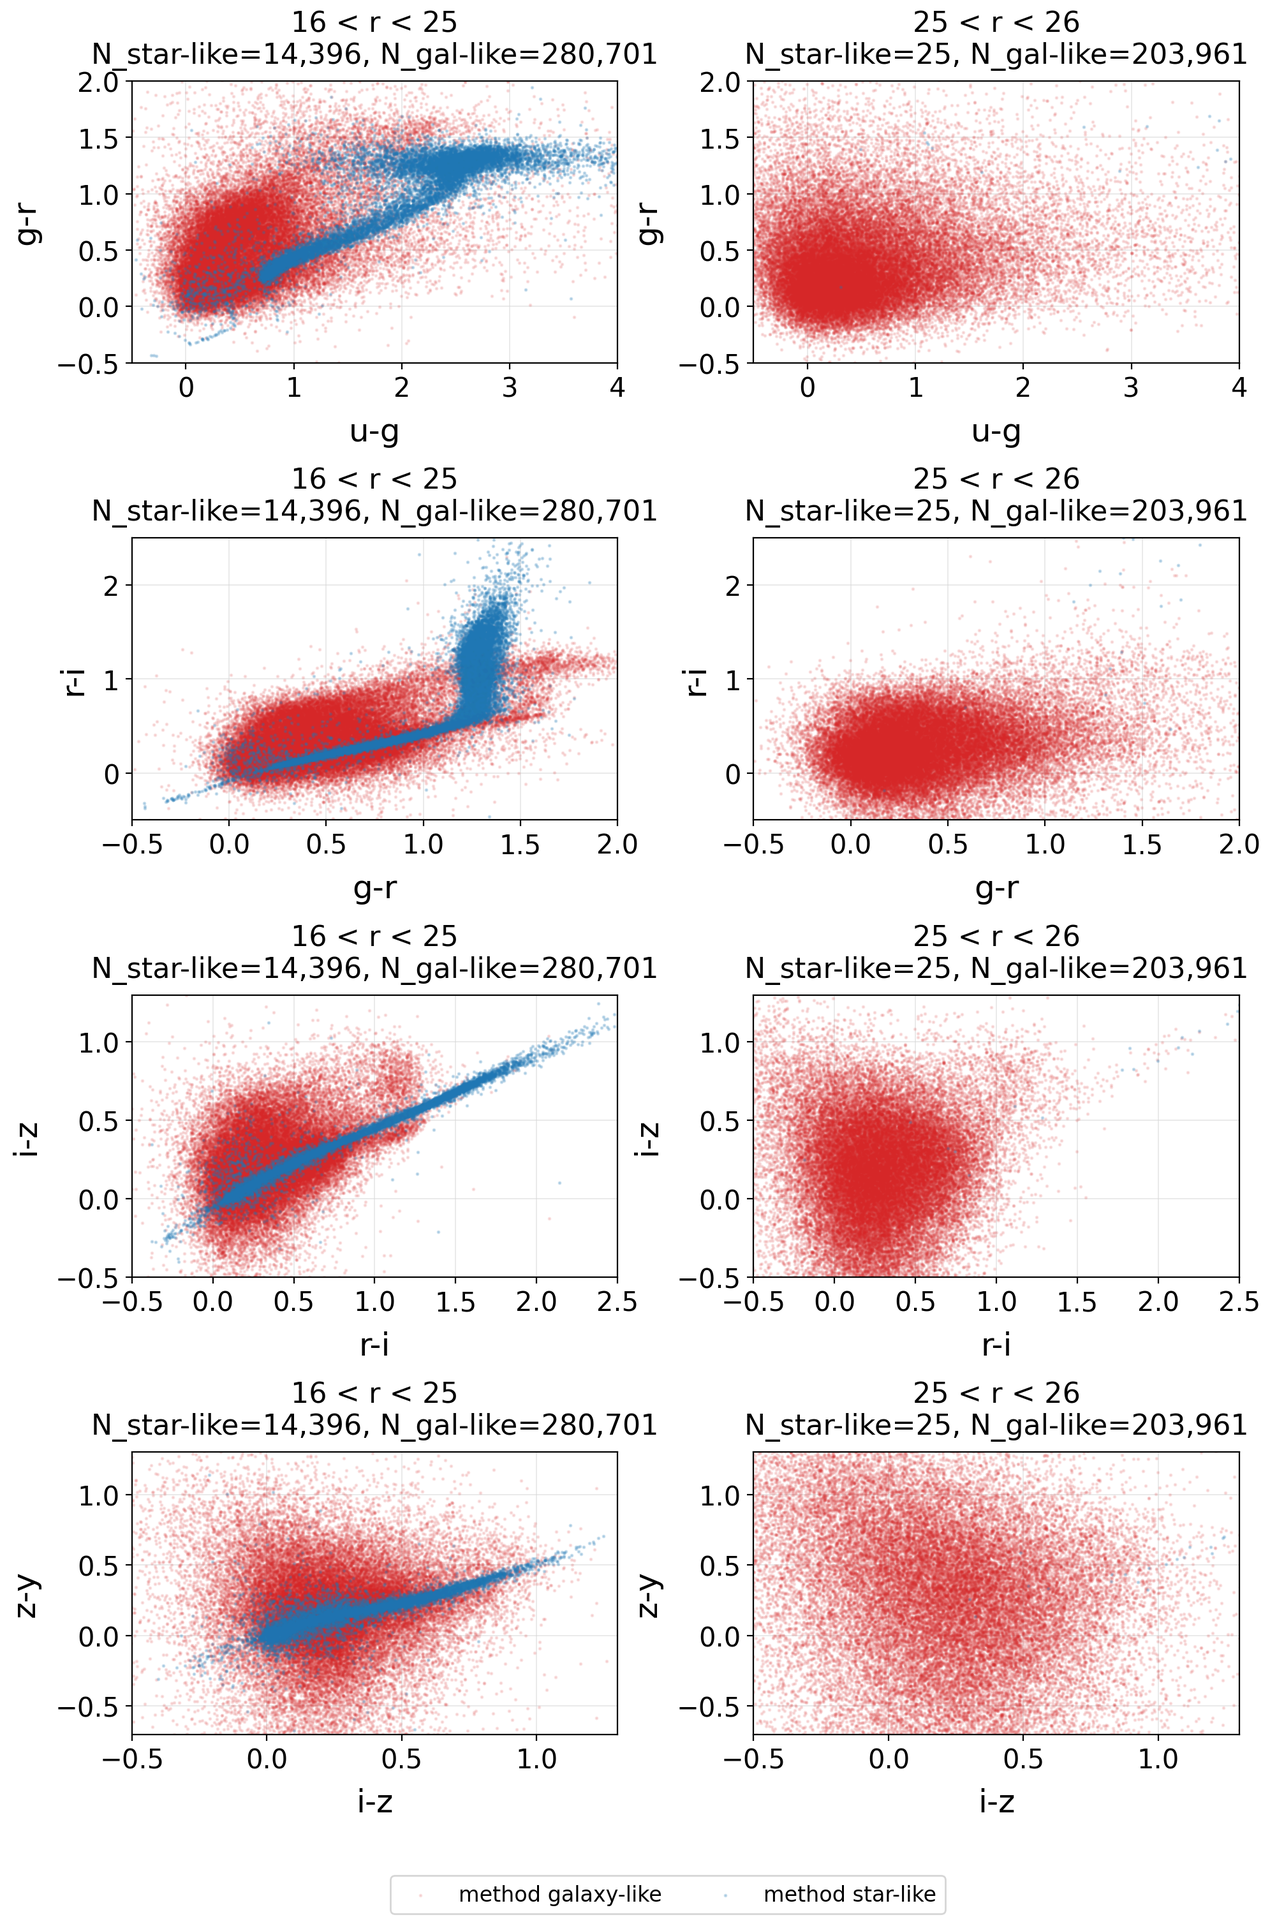
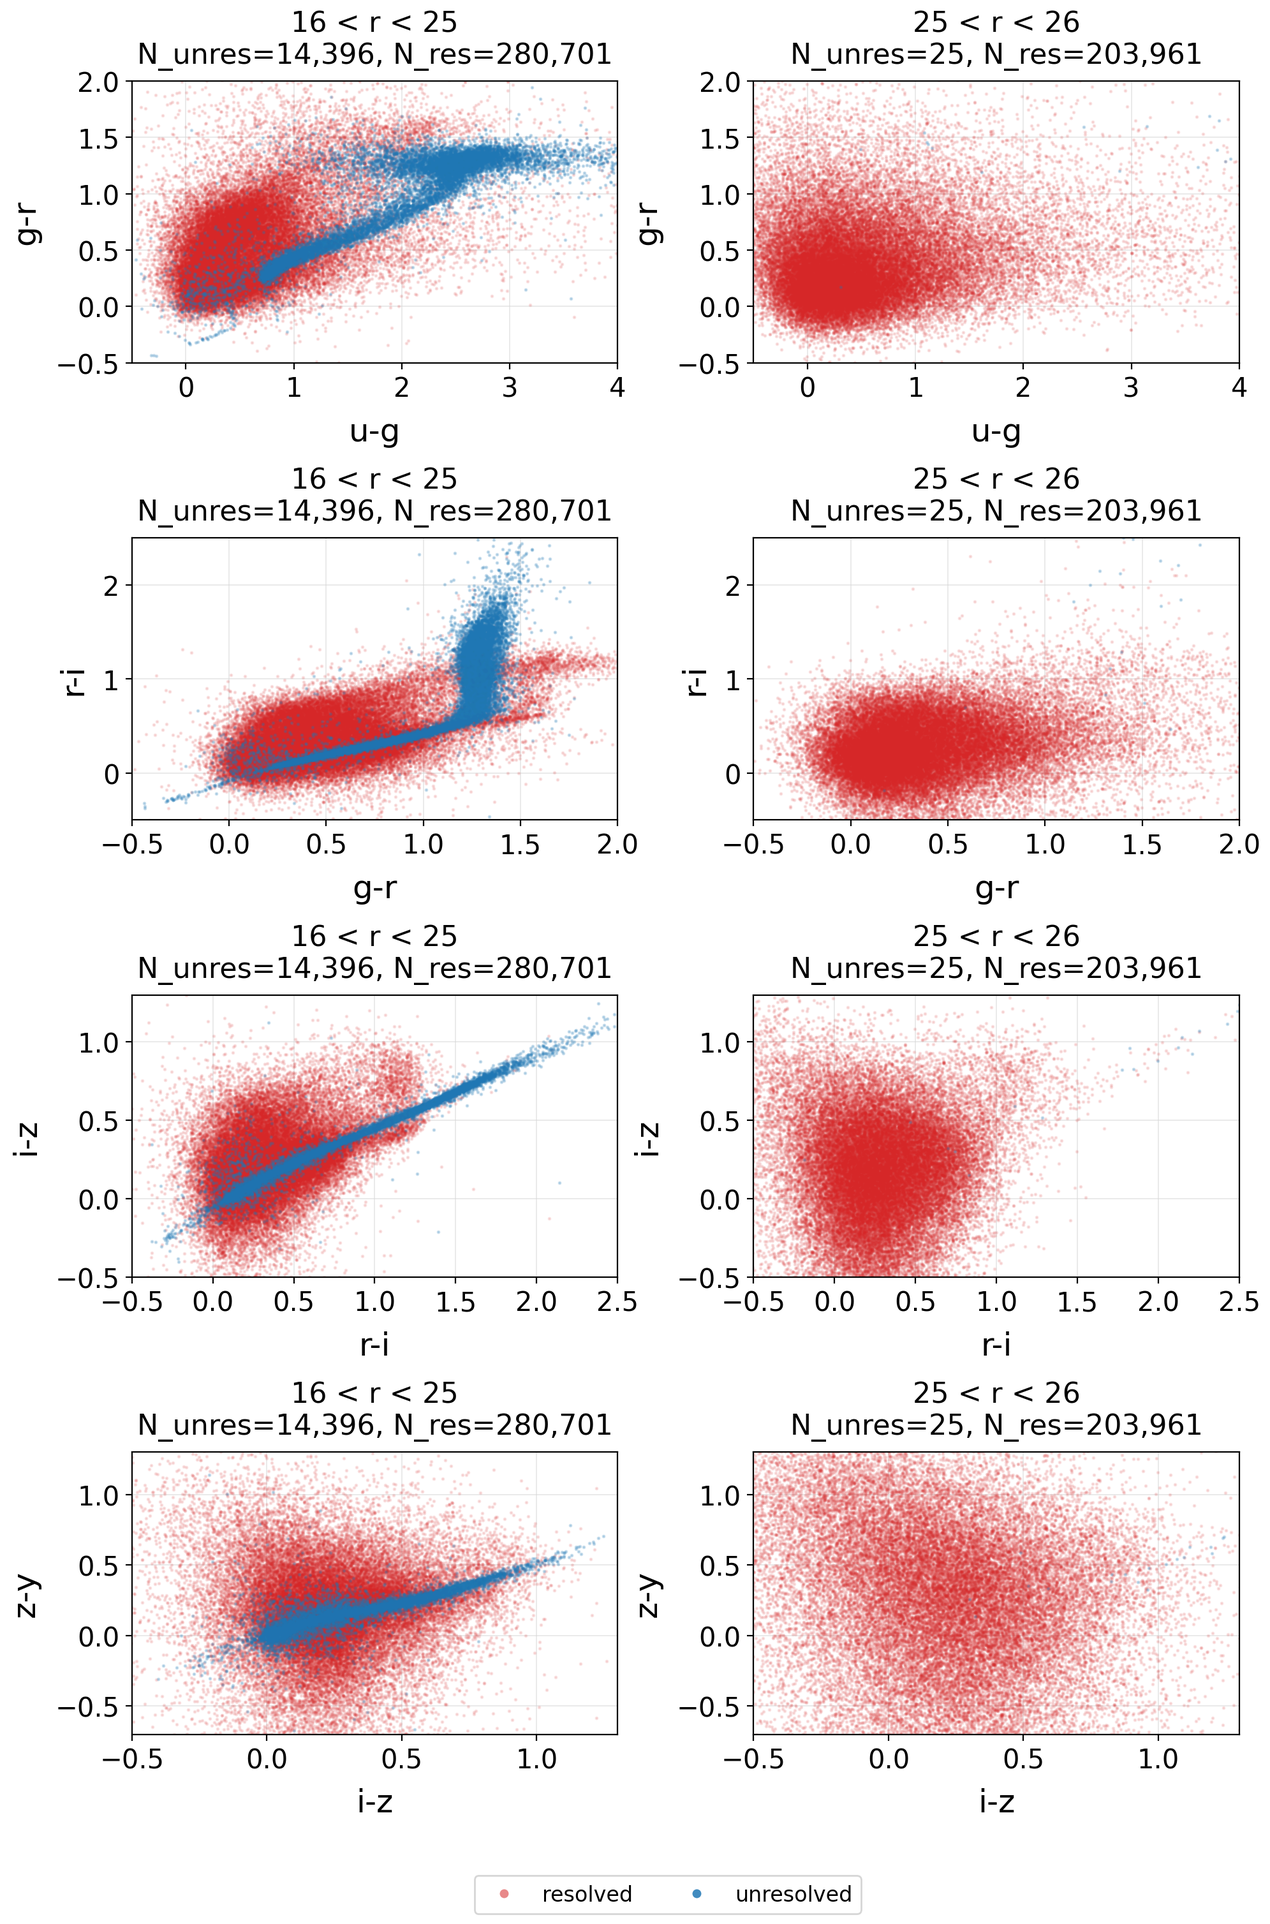
Standardize method-label figure legends

diff --git a/analysis_code/section2_section5_paper_convergence/run_section2_eq54_color_integrated_cosmos.py b/analysis_code/section2_section5_paper_convergence/run_section2_eq54_color_integrated_cosmos.py
@@ -20,6 +20,7 @@ import matplotlib
 
 matplotlib.use("Agg")
 import matplotlib.pyplot as plt
+from matplotlib.lines import Line2D
 import numpy as np
 import pandas as pd
 
@@ -268,13 +269,13 @@ def score_stats(df: pd.DataFrame, col: str) -> dict[str, float | int]:
 def build_performance_rows(eval_df: pd.DataFrame, matched: pd.DataFrame) -> pd.DataFrame:
     rows: list[dict[str, object]] = []
     methods = [
-        ("eq54_morphology_r", "pS_r_eq54prior", "morphology-only Eq.54 r"),
+        ("eq54_morphology_r", "pS_r_eq54prior", "r morphology only"),
         ("pS_color_only", "pS_color", "color-only Random Forest"),
-        ("eq54_color_r", "pS_r_eq54prior_color", "Eq.54 r + color"),
-        ("eq54_morphology_gri", "pS_gri_eq54prior", "morphology-only Eq.54 gri"),
-        ("eq54_color_gri", "pS_gri_eq54prior_color", "Eq.54 gri + color"),
-        ("eq54_morphology_ugrizy", "pS_ugrizy_eq54prior", "morphology-only Eq.54 ugrizy"),
-        ("eq54_color_ugrizy", "pS_ugrizy_eq54prior_color", "Eq.54 ugrizy + color"),
+        ("eq54_color_r", "pS_r_eq54prior_color", "r morphology + color"),
+        ("eq54_morphology_gri", "pS_gri_eq54prior", "gri morphology only"),
+        ("eq54_color_gri", "pS_gri_eq54prior_color", "gri morphology + color"),
+        ("eq54_morphology_ugrizy", "pS_ugrizy_eq54prior", "ugrizy morphology only"),
+        ("eq54_color_ugrizy", "pS_ugrizy_eq54prior_color", "ugrizy morphology + color"),
     ]
     for lo, hi in PERFORMANCE_BINS:
         in_bin = eval_df["cmodel_mag_r"].ge(lo) & eval_df["cmodel_mag_r"].lt(hi)
@@ -406,7 +407,7 @@ def plot_fig2_4(repo_root: Path, joined: pd.DataFrame) -> list[Path]:
         rasterized=True,
     )
     cbar = fig.colorbar(sc, ax=ax, pad=0.015)
-    cbar.set_label("pS_r Eq.54 + color")
+    cbar.set_label("pS_r, morphology + color")
     ax.set_xlim(16, 26)
     finite_y = use["psf_minus_cmodel_r"].dropna().to_numpy(float)
     if finite_y.size:
@@ -414,7 +415,7 @@ def plot_fig2_4(repo_root: Path, joined: pd.DataFrame) -> list[Path]:
         ax.set_ylim(max(-0.4, lo), min(2.2, hi))
     ax.set_xlabel("r CModel magnitude")
     ax.set_ylabel("r PSF - CModel")
-    ax.set_title("COSMOS r-band pS map, Eq.54 + color")
+    ax.set_title("COSMOS r-band pS map, morphology + color")
     return save_figure(fig, out, write_pdf=True)
 
 
@@ -448,8 +449,8 @@ def plot_fig2_5(repo_root: Path, performance: pd.DataFrame) -> list[Path]:
         repo_root / FIGURE_DIR / "fig2_5_cosmos_r_pS_vs_extendedness_performance_eq54prior_color.png",
         [
             ("r_extendedness", "r extendedness", "#ff7f0e"),
-            ("eq54_morphology_r", "Eq.54 morphology r", "#222222"),
-            ("eq54_color_r", "Eq.54 r + color", "#1f77b4"),
+            ("eq54_morphology_r", "r morphology only", "#222222"),
+            ("eq54_color_r", "r morphology + color", "#1f77b4"),
         ],
     )
 
@@ -459,9 +460,9 @@ def plot_fig2_6(repo_root: Path, performance: pd.DataFrame) -> list[Path]:
         performance,
         repo_root / FIGURE_DIR / "fig2_6_cosmos_multiband_r_gri_ugrizy_performance_eq54prior_color.png",
         [
-            ("eq54_color_r", "r + color", "#1f77b4"),
-            ("eq54_color_gri", "g+r+i + color", "#2ca02c"),
-            ("eq54_color_ugrizy", "u+g+r+i+z+y + color", "#9467bd"),
+            ("eq54_color_r", "r morphology + color", "#1f77b4"),
+            ("eq54_color_gri", "gri morphology + color", "#2ca02c"),
+            ("eq54_color_ugrizy", "ugrizy morphology + color", "#9467bd"),
         ],
     )
 
@@ -486,13 +487,13 @@ def plot_fig2_7(repo_root: Path, joined: pd.DataFrame) -> list[Path]:
             gal_panel = panel.loc[~method_star[finite]]
             gal_plot = downsample_frame(gal_panel, 80_000, random_state=RANDOM_SEED)
             star_plot = downsample_frame(star_panel, 45_000, random_state=RANDOM_SEED)
-            ax.scatter(gal_plot[xcol], gal_plot[ycol], s=1.0, c=COLORS["galaxy"], alpha=0.08, linewidths=0, rasterized=True, label="classified galaxy")
-            ax.scatter(star_plot[xcol], star_plot[ycol], s=1.3, c=COLORS["star"], alpha=0.28, linewidths=0, rasterized=True, label="classified star")
+            ax.scatter(gal_plot[xcol], gal_plot[ycol], s=1.0, c=COLORS["galaxy"], alpha=0.08, linewidths=0, rasterized=True)
+            ax.scatter(star_plot[xcol], star_plot[ycol], s=1.3, c=COLORS["star"], alpha=0.28, linewidths=0, rasterized=True)
             ax.set_xlim(*xlim)
             ax.set_ylim(*ylim)
             ax.set_xlabel(xlabel)
             ax.set_ylabel(ylabel)
-            ax.set_title(f"{lo:g} < r < {hi:g}\nN_star={len(star_panel):,}, N_gal={len(gal_panel):,}")
+            ax.set_title(f"{lo:g} < r < {hi:g}\nN_unres={len(star_panel):,}, N_res={len(gal_panel):,}")
             rows.append(
                 {
                     "x_color": xcol,
@@ -506,8 +507,11 @@ def plot_fig2_7(repo_root: Path, joined: pd.DataFrame) -> list[Path]:
                     "threshold": OPERATING_THRESHOLD,
                 }
             )
-    handles, labels = axes[0, 0].get_legend_handles_labels()
-    fig.legend(handles[:2], labels[:2], loc="lower center", ncol=2, bbox_to_anchor=(0.5, 0.01), frameon=True)
+    handles = [
+        Line2D([0], [0], marker="o", color="none", markerfacecolor=COLORS["galaxy"], markeredgewidth=0, markersize=5, alpha=0.55, label="resolved"),
+        Line2D([0], [0], marker="o", color="none", markerfacecolor=COLORS["star"], markeredgewidth=0, markersize=5, alpha=0.85, label="unresolved"),
+    ]
+    fig.legend(handles=handles, loc="lower center", ncol=2, bbox_to_anchor=(0.5, 0.01), frameon=True)
     fig.subplots_adjust(left=0.08, right=0.98, top=0.96, bottom=0.07, hspace=0.58, wspace=0.30)
     saved = save_figure(fig, out, write_pdf=True)
     summary = repo_root / RESULT_DIR / "fig2_7_cosmos_ugrizy_method_color_color_2x4_eq54prior_color_summary.csv"
@@ -519,9 +523,9 @@ def plot_fig5_10(repo_root: Path, joined: pd.DataFrame) -> list[Path]:
     set_paper_style()
     out = repo_root / FIGURE5_DIR / "fig5_10_cosmos_eq54_vs_eq54_color_pS_hist_by_rmag.png"
     scores = [
-        ("pS_r_eq54prior", "Eq.54 morphology r", "#222222"),
+        ("pS_r_eq54prior", "r morphology only", "#222222"),
         ("pS_color", "pS_color", "#ff7f0e"),
-        ("pS_r_eq54prior_color", "Eq.54 r + color", "#1f77b4"),
+        ("pS_r_eq54prior_color", "r morphology + color", "#1f77b4"),
     ]
     fig, axes = plt.subplots(3, 3, figsize=(14.6, 10.2), sharex=True, sharey=False)
     hist_bins = np.linspace(0, 1, 41)

diff --git a/analysis_code/section2_section5_paper_convergence/run_section2_v9_ps_figures.py b/analysis_code/section2_section5_paper_convergence/run_section2_v9_ps_figures.py
@@ -11,6 +11,7 @@ from datetime import datetime
 from pathlib import Path
 
 import matplotlib.pyplot as plt
+from matplotlib.lines import Line2D
 import numpy as np
 import pandas as pd
 
@@ -609,7 +610,6 @@ def plot_fig2_7(repo_root: Path, full: pd.DataFrame, columns: dict[str, str]) ->
                 s=1.1,
                 alpha=0.12,
                 color=COLORS["galaxy"],
-                label="method galaxy-like" if row_idx == 0 and col_idx == 0 else None,
                 rasterized=True,
             )
             ax.scatter(
@@ -618,7 +618,6 @@ def plot_fig2_7(repo_root: Path, full: pd.DataFrame, columns: dict[str, str]) ->
                 s=1.1,
                 alpha=0.22,
                 color=COLORS["star"],
-                label="method star-like" if row_idx == 0 and col_idx == 0 else None,
                 rasterized=True,
             )
             ax.set_xlim(*xlim)
@@ -627,7 +626,7 @@ def plot_fig2_7(repo_root: Path, full: pd.DataFrame, columns: dict[str, str]) ->
             ax.set_ylabel(ylabel, labelpad=8)
             ax.set_title(
                 f"{mag_low:g} < r < {mag_high:g}\n"
-                f"N_star-like={len(star):,}, N_gal-like={len(gal):,}",
+                f"N_unres={len(star):,}, N_res={len(gal):,}",
                 pad=10,
             )
             rows.append(
@@ -647,8 +646,11 @@ def plot_fig2_7(repo_root: Path, full: pd.DataFrame, columns: dict[str, str]) ->
                     "N_method_galaxy_like_plotted": int(len(gal_plot)),
                 }
             )
-    handles, labels = axes[0, 0].get_legend_handles_labels()
-    fig.legend(handles, labels, loc="lower center", ncol=2, bbox_to_anchor=(0.5, -0.012), frameon=True)
+    handles = [
+        Line2D([0], [0], marker="o", color="none", markerfacecolor=COLORS["galaxy"], markeredgewidth=0, markersize=5, alpha=0.55, label="resolved"),
+        Line2D([0], [0], marker="o", color="none", markerfacecolor=COLORS["star"], markeredgewidth=0, markersize=5, alpha=0.85, label="unresolved"),
+    ]
+    fig.legend(handles=handles, loc="lower center", ncol=2, bbox_to_anchor=(0.5, -0.012), frameon=True)
     fig.subplots_adjust(hspace=0.62, wspace=0.28, bottom=0.08)
     saved = save_figure(fig, out_png, write_pdf=True)
 
@@ -672,8 +674,8 @@ def plot_fig2_7(repo_root: Path, full: pd.DataFrame, columns: dict[str, str]) ->
                 "",
                 "## Method-label definition",
                 "- `pS_ugrizy = mean(pS_u, pS_g, pS_r, pS_i, pS_z, pS_y)` over finite values.",
-                f"- method star-like if `pS_ugrizy >= {OPERATING_THRESHOLD}`.",
-                f"- method galaxy-like if `pS_ugrizy < {OPERATING_THRESHOLD}`.",
+                f"- unresolved if `pS_ugrizy >= {OPERATING_THRESHOLD}`.",
+                f"- resolved if `pS_ugrizy < {OPERATING_THRESHOLD}`.",
                 "",
                 "No pS values were reconstructed or prior-corrected in this pass.",
             ]

diff --git a/analysis_code/section2_section5_paper_convergence/run_paper_phase3_eq54_prior_cosmos.py b/analysis_code/section2_section5_paper_convergence/run_paper_phase3_eq54_prior_cosmos.py
@@ -15,6 +15,7 @@ import matplotlib
 
 matplotlib.use("Agg")
 import matplotlib.pyplot as plt
+from matplotlib.lines import Line2D
 import numpy as np
 import pandas as pd
 import pyarrow.parquet as pq
@@ -563,13 +564,13 @@ def plot_fig2_7(repo_root: Path, full: pd.DataFrame) -> list[Path]:
             star = panel[panel["method_star_like"]]
             gal_plot = downsample_frame(gal, 45_000, random_state=RANDOM_SEED + row_idx * 10 + col_idx)
             star_plot = downsample_frame(star, 45_000, random_state=RANDOM_SEED + row_idx * 10 + col_idx + 1)
-            ax.scatter(gal_plot[xcol], gal_plot[ycol], s=1.1, alpha=0.12, color=COLORS["galaxy"], label="method galaxy-like" if row_idx == 0 and col_idx == 0 else None, rasterized=True)
-            ax.scatter(star_plot[xcol], star_plot[ycol], s=1.1, alpha=0.22, color=COLORS["star"], label="method star-like" if row_idx == 0 and col_idx == 0 else None, rasterized=True)
+            ax.scatter(gal_plot[xcol], gal_plot[ycol], s=1.1, alpha=0.12, color=COLORS["galaxy"], rasterized=True)
+            ax.scatter(star_plot[xcol], star_plot[ycol], s=1.1, alpha=0.22, color=COLORS["star"], rasterized=True)
             ax.set_xlim(*xlim)
             ax.set_ylim(*ylim)
             ax.set_xlabel(xlabel, labelpad=8)
             ax.set_ylabel(ylabel, labelpad=8)
-            ax.set_title(f"{mag_low:g} < r < {mag_high:g}\nN_star-like={len(star):,}, N_gal-like={len(gal):,}", pad=10)
+            ax.set_title(f"{mag_low:g} < r < {mag_high:g}\nN_unres={len(star):,}, N_res={len(gal):,}", pad=10)
             rows.append(
                 {
                     "color_plane": f"{xlabel} vs {ylabel}",
@@ -587,8 +588,11 @@ def plot_fig2_7(repo_root: Path, full: pd.DataFrame) -> list[Path]:
                     "N_method_galaxy_like_plotted": int(len(gal_plot)),
                 }
             )
-    handles, labels = axes[0, 0].get_legend_handles_labels()
-    fig.legend(handles, labels, loc="lower center", ncol=2, bbox_to_anchor=(0.5, -0.012), frameon=True)
+    handles = [
+        Line2D([0], [0], marker="o", color="none", markerfacecolor=COLORS["galaxy"], markeredgewidth=0, markersize=5, alpha=0.55, label="resolved"),
+        Line2D([0], [0], marker="o", color="none", markerfacecolor=COLORS["star"], markeredgewidth=0, markersize=5, alpha=0.85, label="unresolved"),
+    ]
+    fig.legend(handles=handles, loc="lower center", ncol=2, bbox_to_anchor=(0.5, -0.012), frameon=True)
     fig.subplots_adjust(hspace=0.62, wspace=0.28, bottom=0.08)
     saved = save_figure(fig, out_png, write_pdf=True)
     pd.DataFrame(rows).to_csv(summary_path, index=False)

diff --git a/analysis_code/section2_section5_paper_convergence/paper_bayesian_method.py b/analysis_code/section2_section5_paper_convergence/paper_bayesian_method.py
@@ -6,6 +6,7 @@ from pathlib import Path
 import sys
 
 import matplotlib.pyplot as plt
+from matplotlib.lines import Line2D
 import numpy as np
 import pandas as pd
 
@@ -349,14 +350,14 @@ def plot_fig2_7_method_color_color(scored: pd.DataFrame, output_png: Path) -> tu
         star = scored.loc[finite & method_star]
         gal_plot = downsample_frame(gal, 80000)
         star_plot = downsample_frame(star, 30000)
-        ax.scatter(gal_plot[x_col], gal_plot[y_col], s=2, c=COLORS["galaxy"], alpha=0.10, linewidths=0, label=f"method galaxy N={len(gal):,}")
-        ax.scatter(star_plot[x_col], star_plot[y_col], s=3, c=COLORS["star"], alpha=0.40, linewidths=0, label=f"method star N={len(star):,}")
+        ax.scatter(gal_plot[x_col], gal_plot[y_col], s=2, c=COLORS["galaxy"], alpha=0.10, linewidths=0)
+        ax.scatter(star_plot[x_col], star_plot[y_col], s=3, c=COLORS["star"], alpha=0.40, linewidths=0)
         xlim, ylim = COLOR_COLOR_LIMITS[limit_key]
         ax.set_xlim(xlim)
         ax.set_ylim(ylim)
         ax.set_xlabel(x_label)
         ax.set_ylabel(y_label)
-        ax.set_title(f"{lo:g} < rmag < {hi:g}\nN_star={len(star):,}, N_gal={len(gal):,}")
+        ax.set_title(f"{lo:g} < rmag < {hi:g}\nN_unres={len(star):,}, N_res={len(gal):,}")
         rows.append(
             {
                 "x_column": x_col,
@@ -369,8 +370,11 @@ def plot_fig2_7_method_color_color(scored: pd.DataFrame, output_png: Path) -> tu
                 "notes": "no Eq. 54 prior calibration yet",
             }
         )
-    handles, labels = axes[0, 0].get_legend_handles_labels()
-    fig.legend(handles, labels, loc="lower center", ncol=2, frameon=True, bbox_to_anchor=(0.5, 0.02))
+    handles = [
+        Line2D([0], [0], marker="o", color="none", markerfacecolor=COLORS["galaxy"], markeredgewidth=0, markersize=5, alpha=0.55, label="resolved"),
+        Line2D([0], [0], marker="o", color="none", markerfacecolor=COLORS["star"], markeredgewidth=0, markersize=5, alpha=0.85, label="unresolved"),
+    ]
+    fig.legend(handles=handles, loc="lower center", ncol=2, frameon=True, bbox_to_anchor=(0.5, 0.02))
     for ax in axes.flat:
         leg = ax.get_legend()
         if leg is not None:

diff --git a/analysis_code/section2_section5_paper_convergence/run_ps_color_v1_cosmos.py b/analysis_code/section2_section5_paper_convergence/run_ps_color_v1_cosmos.py
@@ -10,6 +10,7 @@ from pathlib import Path
 
 import joblib
 import matplotlib.pyplot as plt
+from matplotlib.lines import Line2D
 import numpy as np
 import pandas as pd
 from sklearn.metrics import roc_auc_score
@@ -199,18 +200,20 @@ def _plot_method_color_color(ps_color: pd.DataFrame, output_png: Path) -> list[P
             star_like = ps_color.loc[finite & class_star]
             if len(galaxy_like):
                 plot_gal = galaxy_like.sample(min(len(galaxy_like), 90000), random_state=42)
-                ax.scatter(plot_gal[xcol], plot_gal[ycol], s=1.8, c=COLORS["galaxy"], alpha=0.10, linewidths=0, label="pS_color < 0.5")
+                ax.scatter(plot_gal[xcol], plot_gal[ycol], s=1.8, c=COLORS["galaxy"], alpha=0.10, linewidths=0)
             if len(star_like):
                 plot_star = star_like.sample(min(len(star_like), 40000), random_state=42)
-                ax.scatter(plot_star[xcol], plot_star[ycol], s=2.2, c=COLORS["star"], alpha=0.35, linewidths=0, label="pS_color >= 0.5")
+                ax.scatter(plot_star[xcol], plot_star[ycol], s=2.2, c=COLORS["star"], alpha=0.35, linewidths=0)
             ax.set_xlim(*xlim)
             ax.set_ylim(*ylim)
             ax.set_xlabel(xlabel, labelpad=8)
             ax.set_ylabel(ylabel, labelpad=8)
-            ax.set_title(f"{lo:g} < r < {hi:g}\nN_starlike={len(star_like):,}, N_gallike={len(galaxy_like):,}", pad=12)
-    handles, labels = axes.flat[0].get_legend_handles_labels()
-    if handles:
-        fig.legend(handles, labels, loc="lower center", ncol=2, frameon=True, bbox_to_anchor=(0.5, 0.018))
+            ax.set_title(f"{lo:g} < r < {hi:g}\nN_unres={len(star_like):,}, N_res={len(galaxy_like):,}", pad=12)
+    handles = [
+        Line2D([0], [0], marker="o", color="none", markerfacecolor=COLORS["galaxy"], markeredgewidth=0, markersize=5, alpha=0.55, label="resolved"),
+        Line2D([0], [0], marker="o", color="none", markerfacecolor=COLORS["star"], markeredgewidth=0, markersize=5, alpha=0.85, label="unresolved"),
+    ]
+    fig.legend(handles=handles, loc="lower center", ncol=2, frameon=True, bbox_to_anchor=(0.5, 0.018))
     return save_figure(fig, output_png)
 
 

diff --git a/analysis_code/section2_section5_paper_convergence/run_ps_color_v1_ecdfs.py b/analysis_code/section2_section5_paper_convergence/run_ps_color_v1_ecdfs.py
@@ -10,6 +10,7 @@ from pathlib import Path
 
 import joblib
 import matplotlib.pyplot as plt
+from matplotlib.lines import Line2D
 import numpy as np
 import pandas as pd
 from sklearn.metrics import roc_auc_score
@@ -187,18 +188,20 @@ def _plot_method_color_color(ps_color: pd.DataFrame, output_png: Path) -> list[P
             star_like = ps_color.loc[finite & class_star]
             if len(galaxy_like):
                 plot_gal = galaxy_like.sample(min(len(galaxy_like), 90000), random_state=42)
-                ax.scatter(plot_gal[xcol], plot_gal[ycol], s=1.8, c=COLORS["galaxy"], alpha=0.10, linewidths=0, label="pS_color < 0.5")
+                ax.scatter(plot_gal[xcol], plot_gal[ycol], s=1.8, c=COLORS["galaxy"], alpha=0.10, linewidths=0)
             if len(star_like):
                 plot_star = star_like.sample(min(len(star_like), 40000), random_state=42)
-                ax.scatter(plot_star[xcol], plot_star[ycol], s=2.2, c=COLORS["star"], alpha=0.35, linewidths=0, label="pS_color >= 0.5")
+                ax.scatter(plot_star[xcol], plot_star[ycol], s=2.2, c=COLORS["star"], alpha=0.35, linewidths=0)
             ax.set_xlim(*xlim)
             ax.set_ylim(*ylim)
             ax.set_xlabel(xlabel, labelpad=8)
             ax.set_ylabel(ylabel, labelpad=8)
-            ax.set_title(f"{lo:g} < r < {hi:g}\nN_starlike={len(star_like):,}, N_gallike={len(galaxy_like):,}", pad=12)
-    handles, labels = axes.flat[0].get_legend_handles_labels()
-    if handles:
-        fig.legend(handles, labels, loc="lower center", ncol=2, frameon=True, bbox_to_anchor=(0.5, 0.018))
+            ax.set_title(f"{lo:g} < r < {hi:g}\nN_unres={len(star_like):,}, N_res={len(galaxy_like):,}", pad=12)
+    handles = [
+        Line2D([0], [0], marker="o", color="none", markerfacecolor=COLORS["galaxy"], markeredgewidth=0, markersize=5, alpha=0.55, label="resolved"),
+        Line2D([0], [0], marker="o", color="none", markerfacecolor=COLORS["star"], markeredgewidth=0, markersize=5, alpha=0.85, label="unresolved"),
+    ]
+    fig.legend(handles=handles, loc="lower center", ncol=2, frameon=True, bbox_to_anchor=(0.5, 0.018))
     return save_figure(fig, output_png)
 
 
